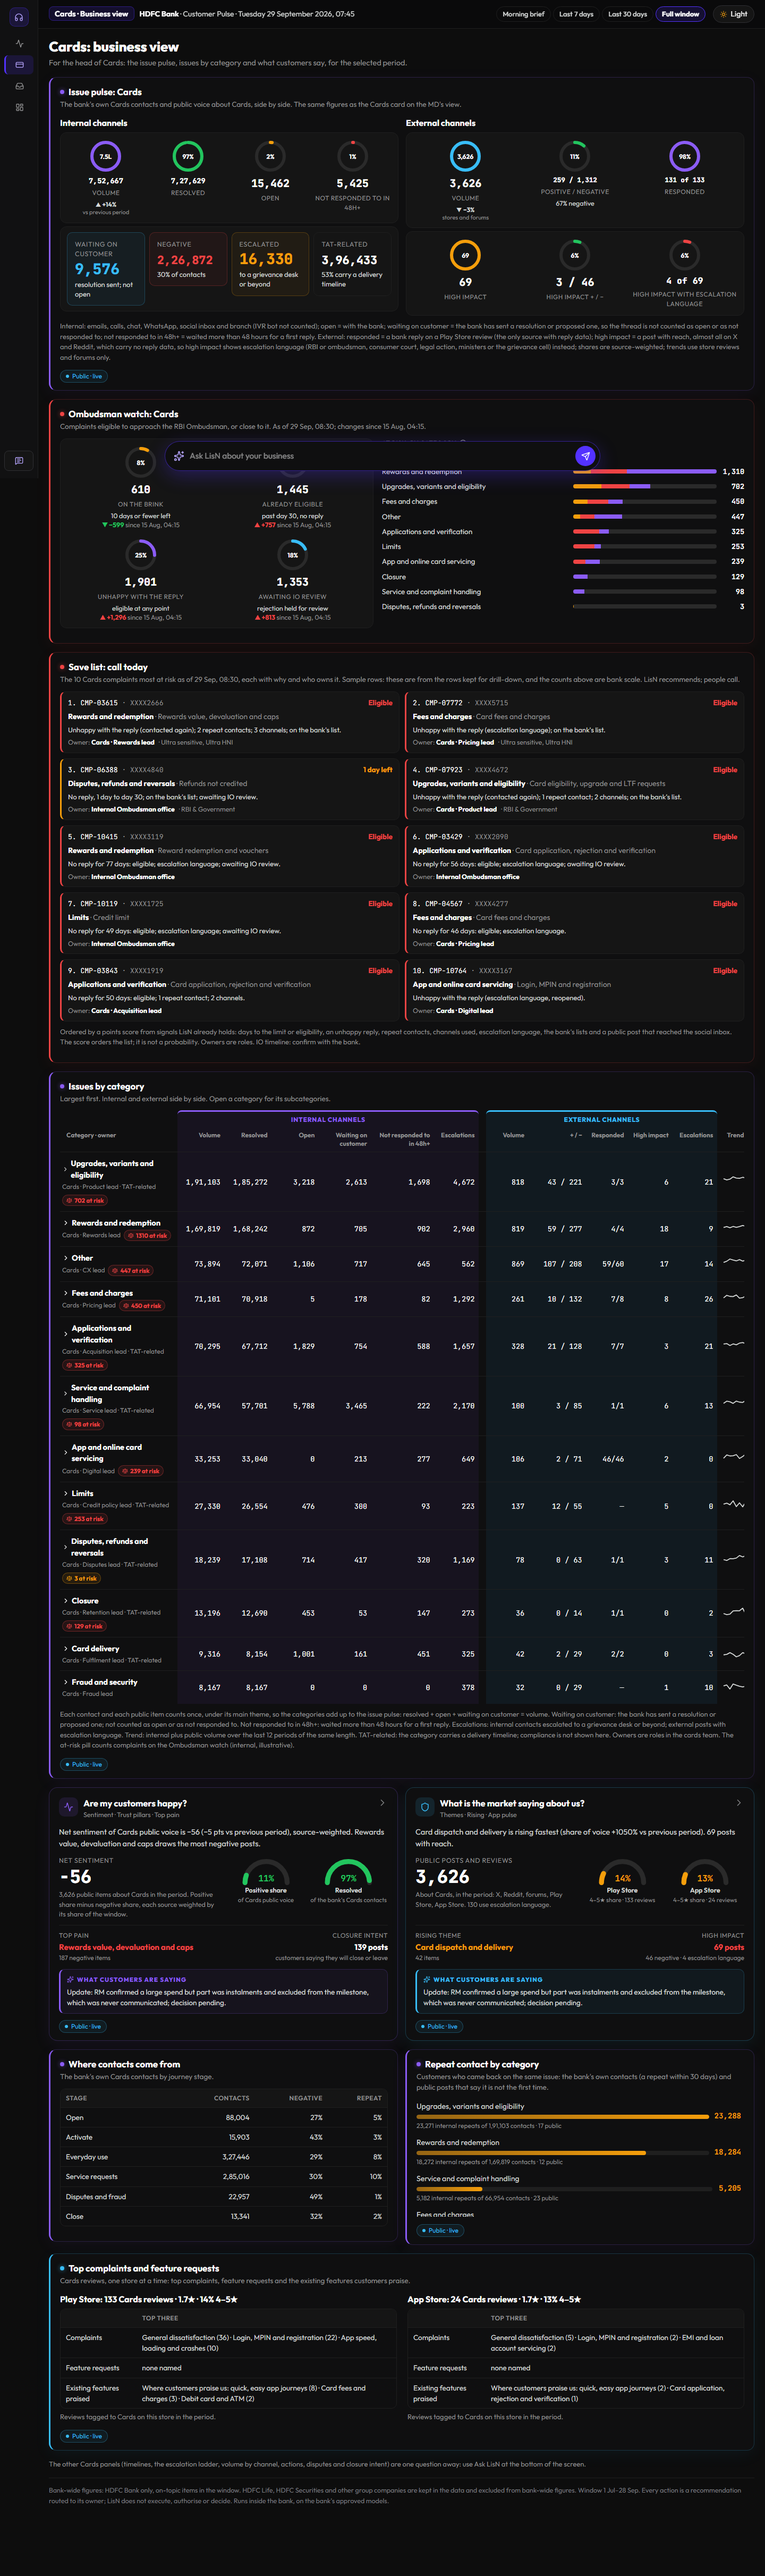
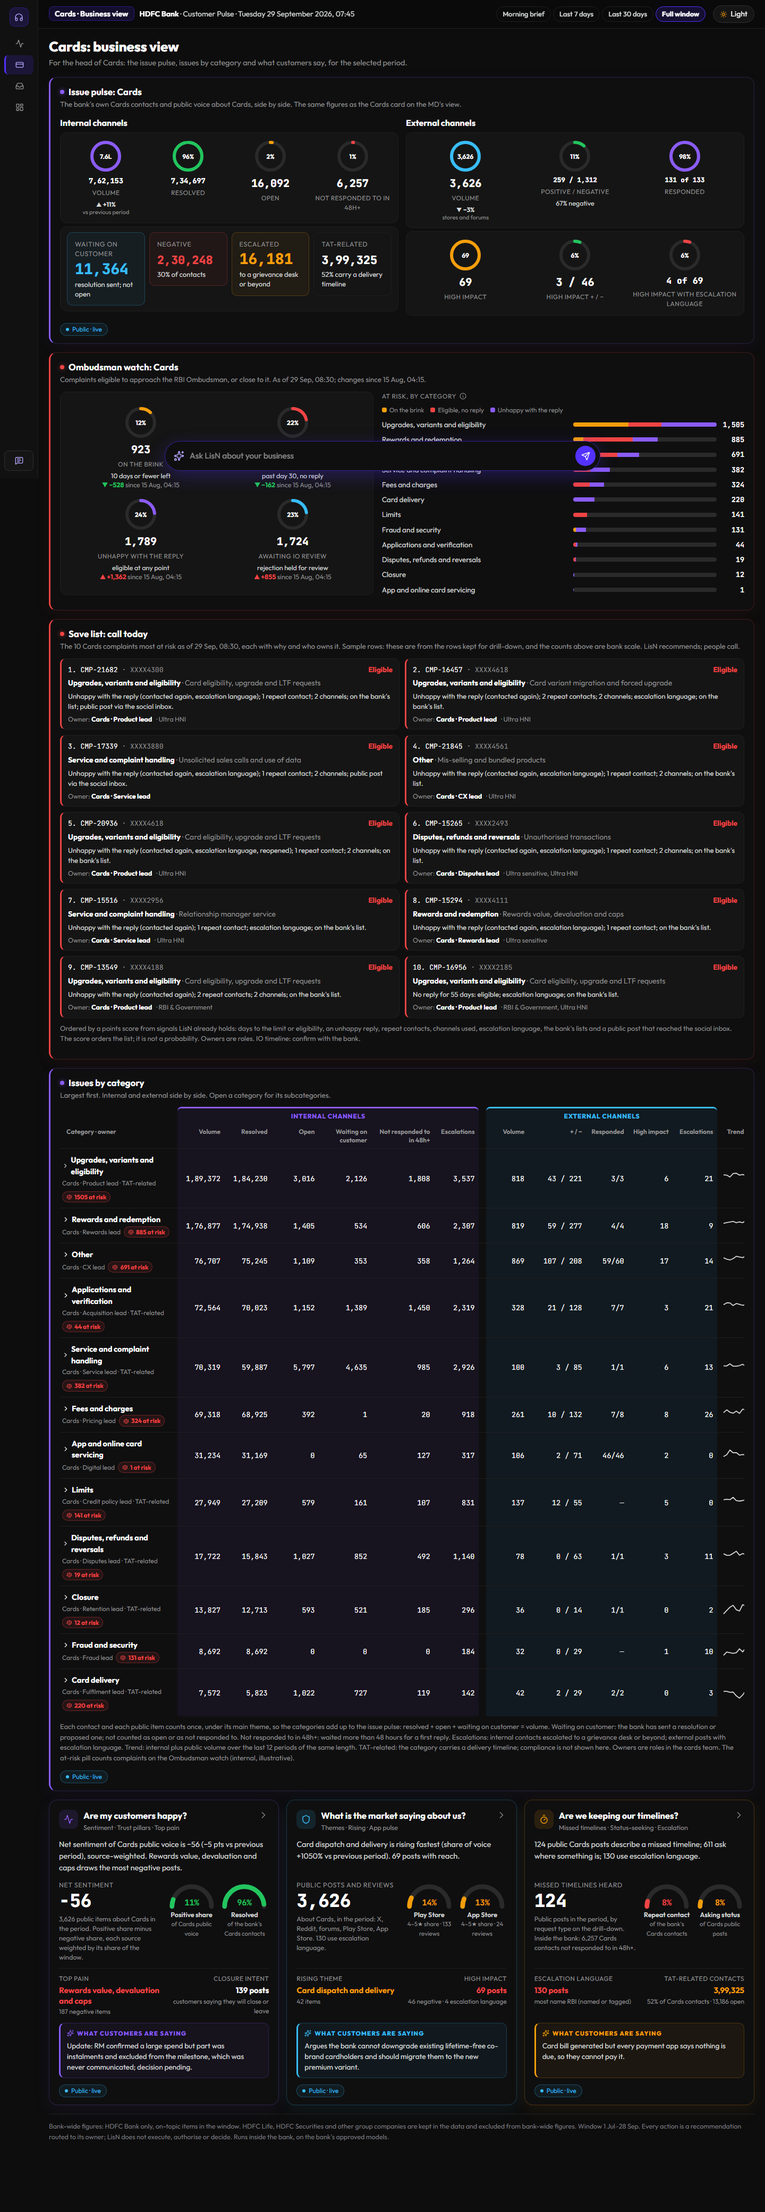
Log D30; retake the bank-scale screenshots

diff --git a/docs/demo-rebuild/MORNING_DECISIONS.md b/docs/demo-rebuild/MORNING_DECISIONS.md
@@ -431,3 +431,37 @@ can sit well away from the full-window rate.
 **Validation.** `qa/volume_validation.md` is rewritten by `scripts/hdfc_v3/volume_validation.py` on every run: 49 rows,
 each against its anchor. It fails the run if a row is more than 2x off without a stated reason.
 
+## D30 · Granularity, the Ombudsman share of pending, and RMs alerted (1 Oct, follow-up to D29)
+
+**What was wrong.** With one weight per kind of row, small figures moved in steps: an Ultra HNI row stood for about 160
+contacts, so "no reply in 48h+" read 3, 3, then 318 across periods, and "RMs alerted" was always a multiple of 16.
+
+**Fix: more kept rows where the figures are small.**
+- The seed now draws listed customers more often for the kept sample (Ultra sensitive 4.2x, RBI & Government 2.6x,
+  Ultra HNI 9x). The sample is still 32,000 rows; the two small lists now hold about as many rows as they have
+  contacts, so their rows carry a weight of about 1, and an Ultra HNI row about 29 instead of 160.
+- Every row starts between 0.6 and 1.4 times the average before the fitting, and every customer between 0.5 and 1.5
+  times its stratum's average, so rows of one kind no longer share one weight.
+- The calibration was re-run: the totals still hit the anchors (24,00,418 contacts, 1,10,192 complaints, the channel
+  and product mixes, 2 lakh Ultra HNI with 22% in contact). `qa/volume_validation.md`: 48 of 49 rows OK.
+- New reconcile check: of the internal figures under 500 on the MD and Cards views, across all four periods, no more
+  than 30% may share a common factor above 5. Today the worst is 21% (divisible by 7), across 191 figures.
+- This redraws the sample, so every internal figure moved a little from D29 (pending 20,254, was 21,094; multiple
+  relationships 85,000, was 85,900).
+
+**Ombudsman watch against pending.** "On the brink" (2,707) and "already eligible" (6,621) are both complaints still
+waiting for a reply, so together (9,328) they are a subset of pending (20,254): 46%. That is plausible for a 30-day
+rule: about a third of pending is past day 30, and an eighth is within 10 days of it. Reconcile now checks the subset
+for the bank and for Cards in every period, and that the bank share stays between 15% and 75%. "Unhappy with the reply"
+is outside pending by definition: those complaints were answered.
+
+**RMs alerted, at bank scale.** Y is the listed customers with an alert due in the selected period: a contact from the
+period still open with the bank that is negative, high impact or more than 5 hours old (the same RM rule as before),
+for customers who have an RM. A sample customer stands for its customer weight, but never for more customers than the
+due contacts it carries, so Y never exceeds the open contacts beside it (reconcile checks this). X is those whose RM has
+been alerted. Full window: Ultra sensitive 7 of 49, RBI & Government 16 of 79, Ultra HNI 381 of 1,880, multiple
+relationships 242 of 1,055. "Customers in contact" uses the same cap.
+
+**High-priority mentions.** The public reply is now spread evenly through time at bank scale (about 62% answered), so
+the rate is steady across periods: 63% full window, 64% for 30 days, 72% for 7 days.
+
